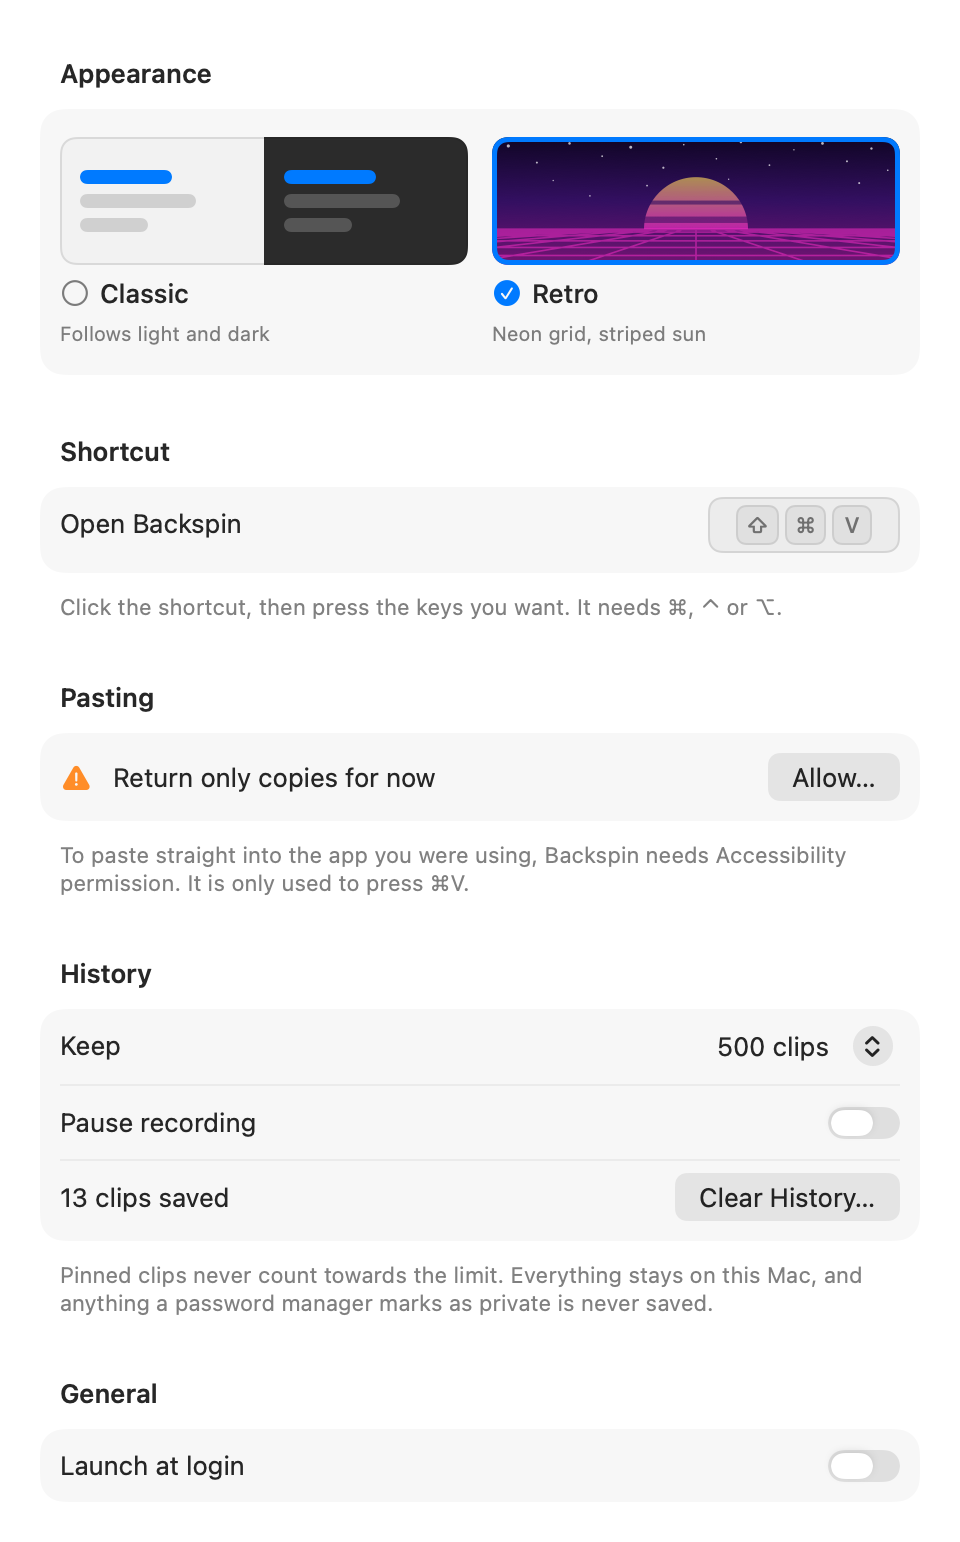
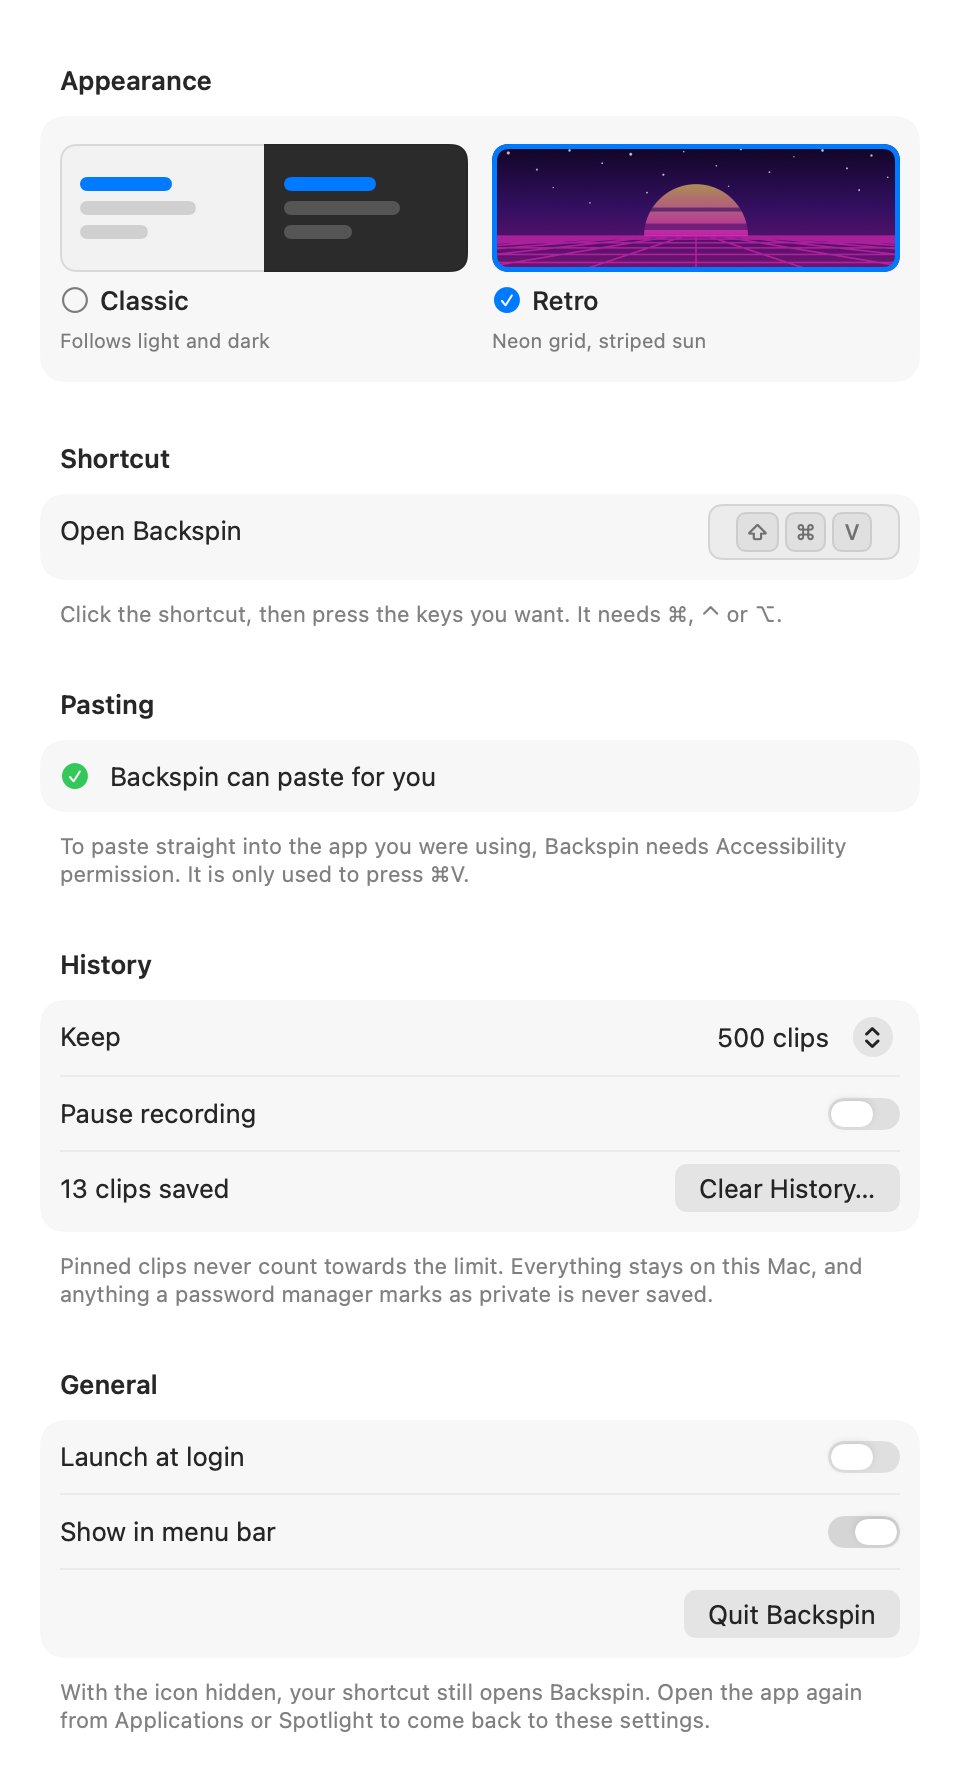
Add a Show in menu bar setting
The menu bar icon can now be hidden when space beside the notch is
tight. The shortcut keeps working, opening the app again brings back
Settings, and Settings gains a Quit button so the app stays reachable.

diff --git a/Sources/Backspin/BackspinApp.swift b/Sources/Backspin/BackspinApp.swift
@@ -71,12 +71,19 @@ final class AppDelegate: NSObject, NSApplicationDelegate, NSMenuDelegate {
 
         installStatusItem()
         observePause()
+        observeMenuBarIcon()
 
         let firstLaunchKey = "hasLaunchedBefore"
         if demo || !UserDefaults.standard.bool(forKey: firstLaunchKey) {
             UserDefaults.standard.set(true, forKey: firstLaunchKey)
             panelController.show()
         }
+    }
+
+    /// Opening the app again (Finder, Spotlight) is the way back to Settings when the menu bar icon is hidden.
+    func applicationShouldHandleReopen(_ sender: NSApplication, hasVisibleWindows: Bool) -> Bool {
+        openSettings()
+        return false
     }
 
     func applicationWillTerminate(_ notification: Notification) {
@@ -128,6 +135,14 @@ final class AppDelegate: NSObject, NSApplicationDelegate, NSMenuDelegate {
         statusItem.button?.toolTip = store.isPaused
             ? String(localized: "Backspin is paused")
             : String(localized: "Backspin is saving what you copy")
+    }
+
+    private func observeMenuBarIcon() {
+        withObservationTracking {
+            statusItem.isVisible = settings.showsMenuBarIcon
+        } onChange: { [weak self] in
+            Task { @MainActor in self?.observeMenuBarIcon() }
+        }
     }
 
     private func observePause() {

diff --git a/Sources/Backspin/SettingsView.swift b/Sources/Backspin/SettingsView.swift
@@ -73,13 +73,23 @@ struct SettingsView: View {
                 Text("Pinned clips never count towards the limit. Everything stays on this Mac, and anything a password manager marks as private is never saved.")
             }
 
-            Section("General") {
+            Section {
                 Toggle("Launch at login", isOn: $launchAtLogin)
                     .onChange(of: launchAtLogin) { _, enabled in
                         if !LaunchAtLogin.setEnabled(enabled) {
                             launchAtLogin = LaunchAtLogin.isEnabled
                         }
                     }
+                Toggle("Show in menu bar", isOn: $settings.showsMenuBarIcon)
+                LabeledContent {
+                    Button("Quit Backspin") { NSApp.terminate(nil) }
+                } label: {
+                    EmptyView()
+                }
+            } header: {
+                Text("General")
+            } footer: {
+                Text("With the icon hidden, your shortcut still opens Backspin. Open the app again from Applications or Spotlight to come back to these settings.")
             }
         }
         .formStyle(.grouped)

diff --git a/Sources/Backspin/PanelModel.swift b/Sources/Backspin/PanelModel.swift
@@ -12,6 +12,13 @@ final class AppSettings {
         didSet { defaults.set(theme.rawValue, forKey: Theme.storageKey) }
     }
 
+    /// Off hides the menu bar icon; the shortcut still opens the panel.
+    var showsMenuBarIcon: Bool {
+        didSet { defaults.set(showsMenuBarIcon, forKey: Self.menuBarIconKey) }
+    }
+
+    static let menuBarIconKey = "showsMenuBarIcon"
+
     var hotKey: KeyCombo {
         didSet {
             if let data = try? JSONEncoder().encode(hotKey) {
@@ -23,6 +30,7 @@ final class AppSettings {
     init(defaults: UserDefaults = .standard) {
         self.defaults = defaults
         theme = Theme(storedValue: defaults.string(forKey: Theme.storageKey))
+        showsMenuBarIcon = defaults.object(forKey: Self.menuBarIconKey) as? Bool ?? true
         hotKey = defaults.data(forKey: KeyCombo.storageKey)
             .flatMap { try? JSONDecoder().decode(KeyCombo.self, from: $0) } ?? .standard
     }

diff --git a/README.md b/README.md
@@ -119,6 +119,7 @@ Open them from the gear in the panel, the menu bar item, or `⌘,`.
 | Pause recording | Stop saving what you copy |
 | Clear History | Removes everything except pinned clips, after a confirmation |
 | Launch at login | Start Backspin when you log in |
+| Show in menu bar | Hide the menu bar icon when space is tight. The shortcut still works, and opening the app again brings back Settings |
 
 <p align="center">
   <img src="docs/settings.png" width="480" alt="Backspin settings window">
